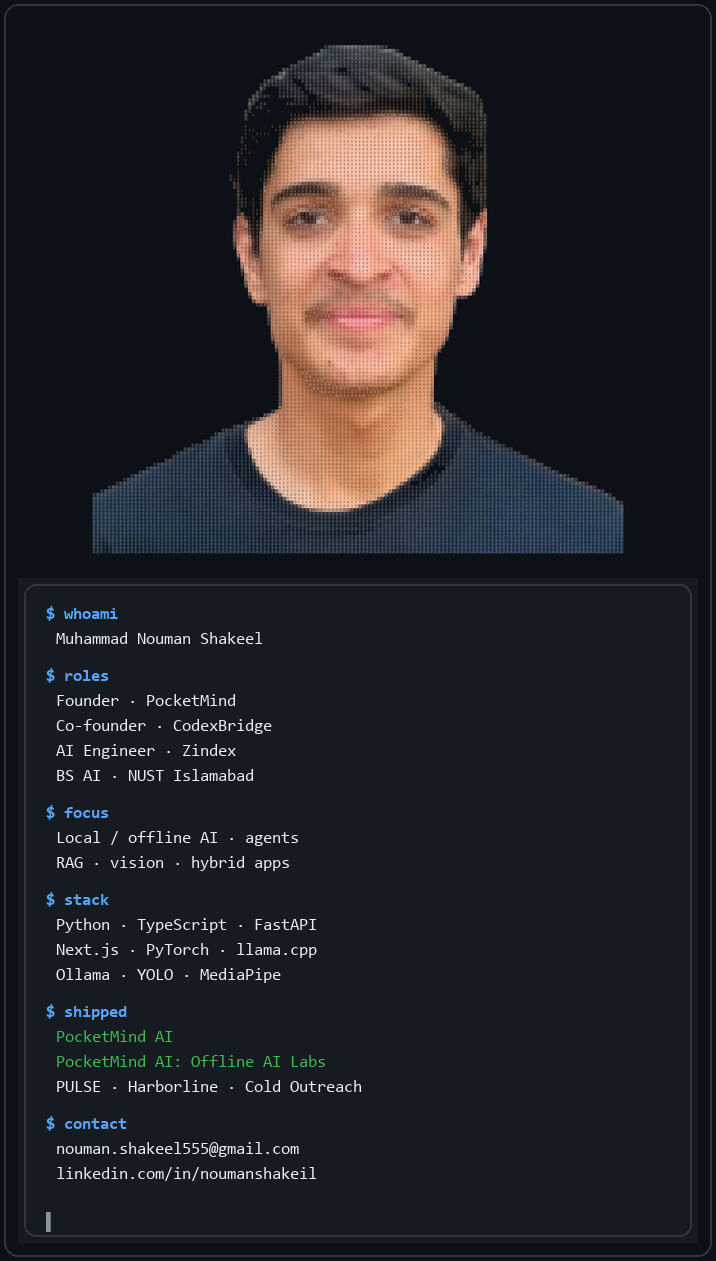
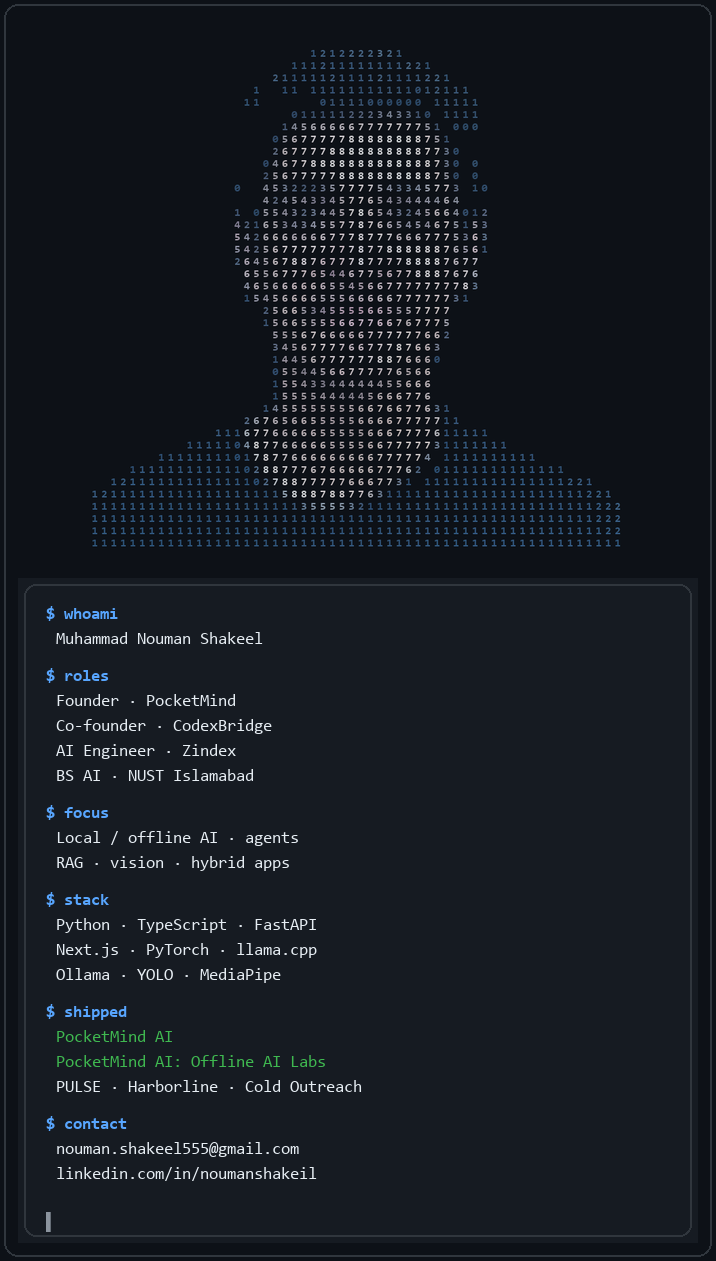
Make digit glyphs clearly visible in the profile hero.
Render large bold numbers as the mosaic pixels (no photo fill) so the face is still readable while digits stay obvious on GitHub.

Changed region(s): [[0.1229, 0.0309, 0.8911, 0.4639]]

diff --git a/make_digit_portrait.py b/make_digit_portrait.py
@@ -1,7 +1,7 @@
-"""High-likeness digit portrait for the GitHub profile hero.
+"""Digit portrait where numbers are clearly visible.
 
-Uses rembg for a clean subject cutout, then a dense photo-colored digit
-mosaic so the face is recognizable and still clearly made of numbers.
+Each mosaic cell is a large bold digit colored from the photo — no solid
+photo fill underneath. Zoom in = numbers. Zoom out = your face.
 """
 from __future__ import annotations
 
@@ -25,8 +25,9 @@ MUTED = (139, 148, 158)
 WHITE = (230, 237, 243)
 GREEN = (63, 185, 80)
 
-COLS = 140
-DIGITS = "9876543210"
+# Fewer, larger cells so each digit is readable on GitHub
+COLS = 56
+DIGITS = "9876543210@"
 
 BLOCKS: list[tuple[str, list[str]]] = [
     ("$ whoami", ["Muhammad Nouman Shakeel"]),
@@ -91,62 +92,78 @@ def luma(r: int, g: int, b: int) -> float:
     return (0.2126 * r + 0.7152 * g + 0.0722 * b) / 255.0
 
 
-def blend(a: tuple[int, int, int], b: tuple[int, int, int], t: float) -> tuple[int, int, int]:
-    return tuple(int(x * (1 - t) + y * t) for x, y in zip(a, b))  # type: ignore[return-value]
+def digit_color(r: int, g: int, b: int) -> tuple[int, int, int]:
+    """Mix photo hue with bright cyan so glyphs stay obviously 'numbers'."""
+    y = max(0.18, luma(r, g, b))
+    # terminal cyan ramp by brightness
+    cyan = (
+        int(40 + 160 * y),
+        int(90 + 150 * y),
+        int(140 + 115 * y),
+    )
+    # keep a bit of skin/hair hue so the face still looks like you
+    return (
+        min(255, int(r * 0.45 + cyan[0] * 0.55)),
+        min(255, int(g * 0.40 + cyan[1] * 0.60)),
+        min(255, int(b * 0.35 + cyan[2] * 0.65)),
+    )
 
 
 def prepare_cutout() -> Image.Image:
-    src = Image.open(SRC).convert("RGBA")
-    w, h = src.size
-    src = src.crop((int(w * 0.10), 0, int(w * 0.90), int(h * 0.80)))
+    if OUT_CUTOUT.exists():
+        cut = Image.open(OUT_CUTOUT).convert("RGBA")
+    else:
+        src = Image.open(SRC).convert("RGBA")
+        w, h = src.size
+        src = src.crop((int(w * 0.10), 0, int(w * 0.90), int(h * 0.80)))
+        cut = remove(src)
+        cut.save(OUT_CUTOUT)
 
-    cut = remove(src)
-    cut.save(OUT_CUTOUT)
-
-    # composite onto dark bg
     base = Image.new("RGBA", cut.size, (*BG, 255))
     base.alpha_composite(cut)
     rgb = base.convert("RGB")
-    rgb = ImageEnhance.Contrast(rgb).enhance(1.15)
-    rgb = ImageEnhance.Color(rgb).enhance(1.05)
-    rgb = rgb.filter(ImageFilter.UnsharpMask(radius=1.0, percent=120, threshold=2))
+    rgb = ImageEnhance.Contrast(rgb).enhance(1.25)
+    rgb = ImageEnhance.Color(rgb).enhance(1.1)
+    rgb = rgb.filter(ImageFilter.UnsharpMask(radius=1.2, percent=140, threshold=2))
     return rgb
 
 
 def render_digit_portrait() -> Image.Image:
     work = prepare_cutout()
 
-    cell = 7
-    rows = max(28, int(COLS * (work.height / work.width)))
+    # Large glyphs — clearly readable as numbers
+    cell_w, cell_h = 14, 18
+    rows = max(16, int(COLS * (work.height / work.width) * (cell_w / cell_h)))
     small = work.resize((COLS, rows), Image.Resampling.BOX)
     px = small.load()
 
-    font = load_font(cell, bold=True)
-    pad = 8
-    canvas = Image.new("RGB", (COLS * cell + pad * 2, rows * cell + pad * 2), BG)
+    font = load_font(cell_h - 2, bold=True)
+    pad = 10
+    canvas = Image.new("RGB", (COLS * cell_w + pad * 2, rows * cell_h + pad * 2), BG)
     draw = ImageDraw.Draw(canvas)
 
     for y in range(rows):
         for x in range(COLS):
             r, g, b = px[x, y]
-            # skip pure background cells from rembg composite
-            if abs(r - BG[0]) < 10 and abs(g - BG[1]) < 10 and abs(b - BG[2]) < 10:
+            # skip background
+            if abs(r - BG[0]) < 12 and abs(g - BG[1]) < 12 and abs(b - BG[2]) < 12:
                 continue
-            if luma(r, g, b) < 0.045:
+            if luma(r, g, b) < 0.05:
                 continue
 
-            x0 = pad + x * cell
-            y0 = pad + y * cell
-
-            # cell fill = photo color (likeness)
-            draw.rectangle((x0, y0, x0 + cell - 1, y0 + cell - 1), fill=(r, g, b))
-
-            # digit overlay — visible but not washing the face
             yv = luma(r, g, b)
+            # darker photo → denser-looking digit glyph
             idx = min(len(DIGITS) - 1, int((1.0 - yv) * (len(DIGITS) - 1)))
-            digit_target = (10, 14, 20) if yv > 0.40 else (220, 235, 255)
-            digit_col = blend((r, g, b), digit_target, 0.42)
-            draw.text((x0 + 1, y0 - 1), DIGITS[idx], fill=digit_col, font=font)
+            ch = DIGITS[idx]
+            fill = digit_color(r, g, b)
+
+            # THE digit IS the pixel — no photo rectangle under it
+            draw.text(
+                (pad + x * cell_w, pad + y * cell_h - 1),
+                ch,
+                fill=fill,
+                font=font,
+            )
 
     return canvas
 
